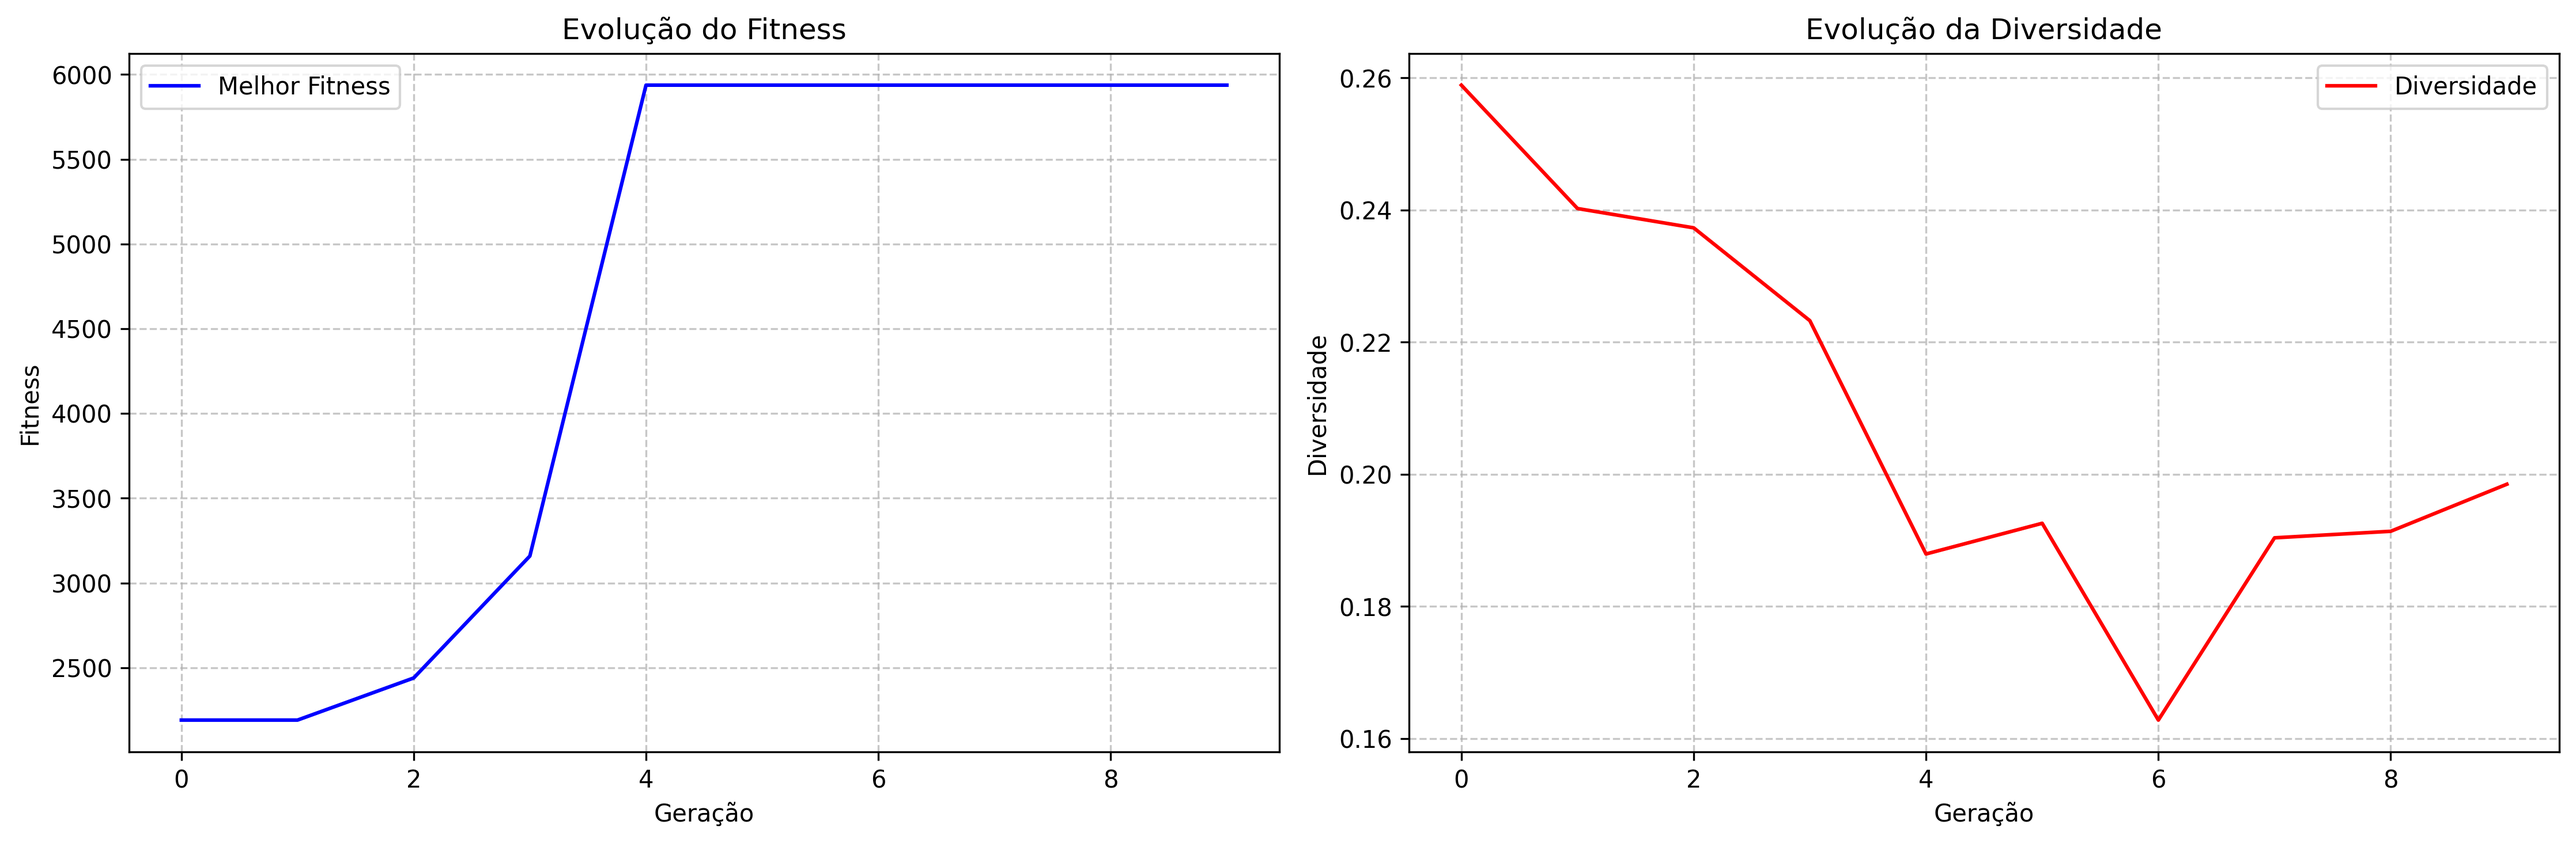
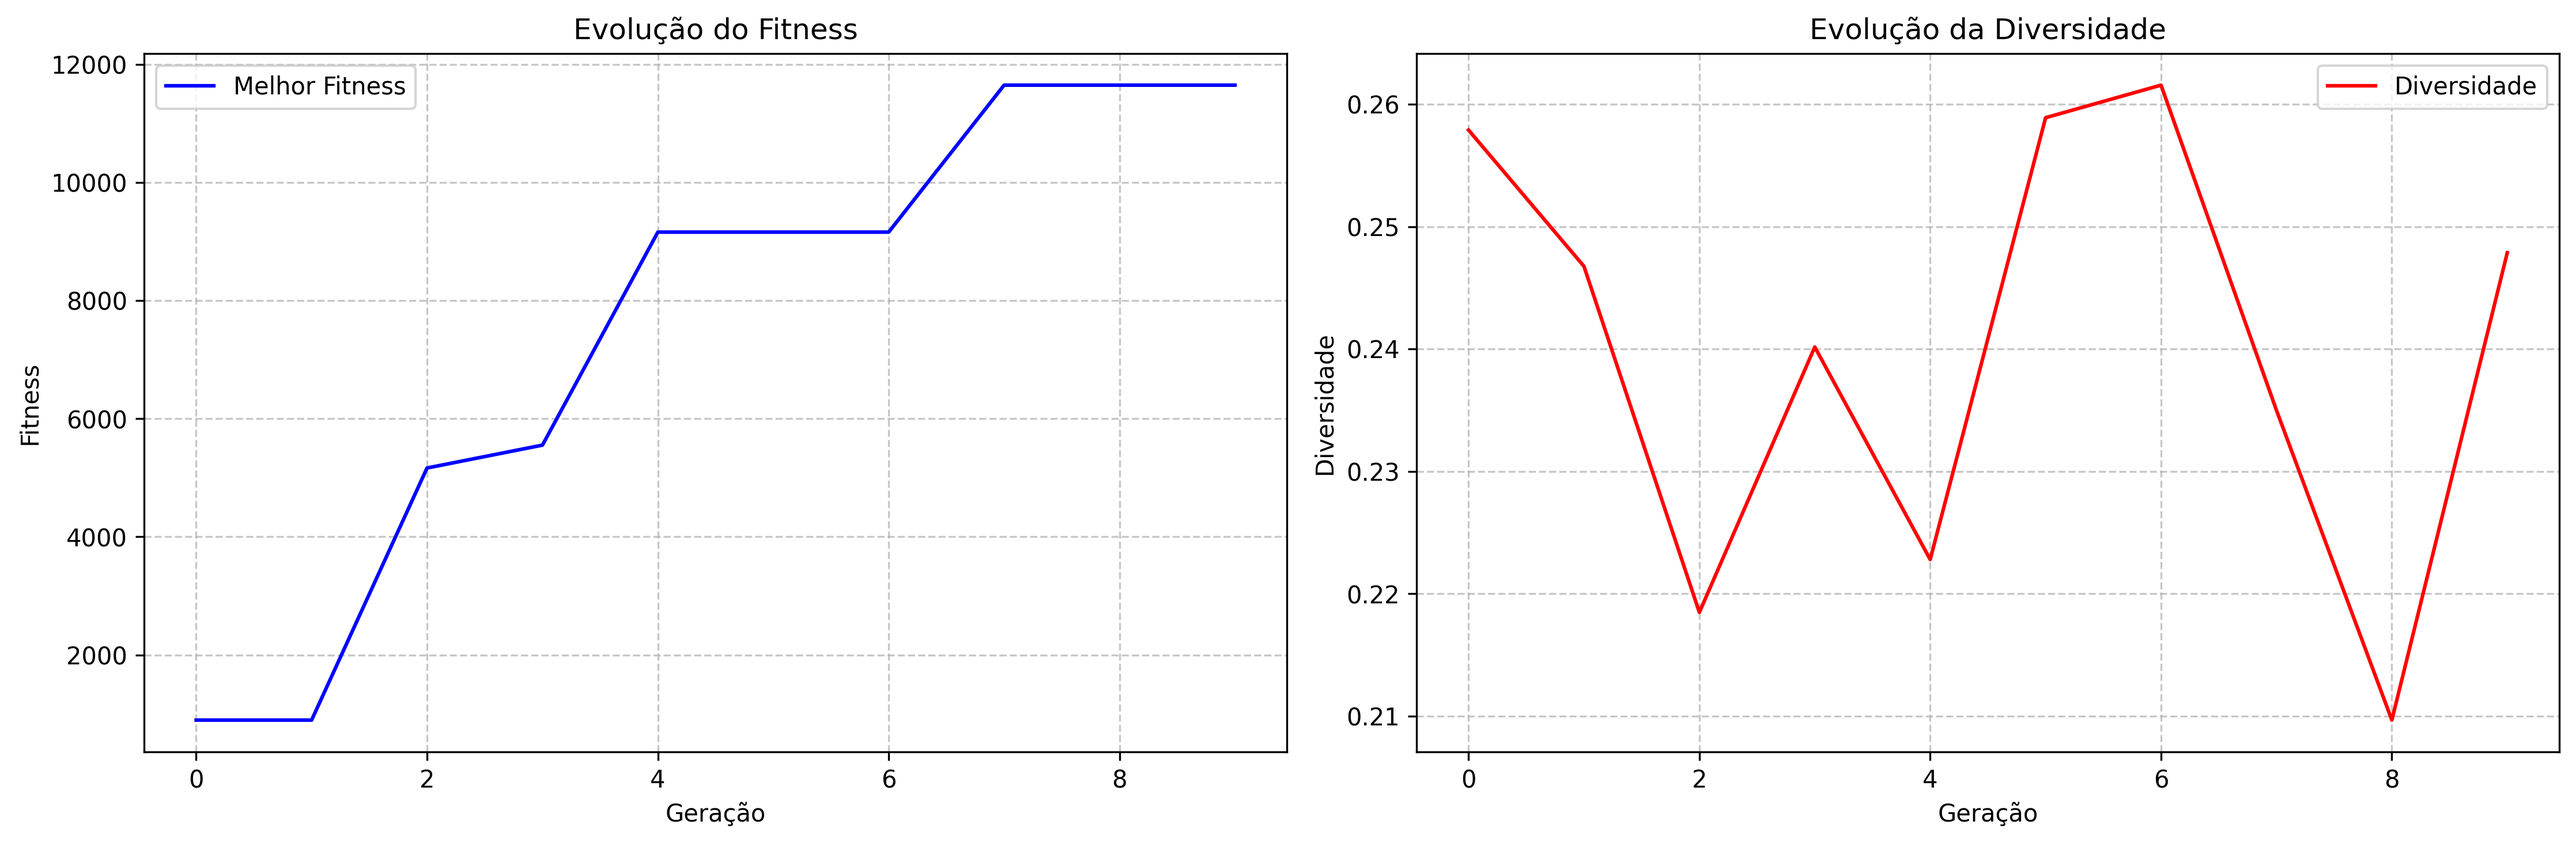
robo com melhor controle

diff --git a/robo_exercicio.py b/robo_exercicio.py
@@ -231,8 +231,8 @@ class Robo:
         self.tempo_parado = 0
         self.ultima_posicao = (x, y)
         self.meta_atingida = False
-        self.velocidade_maxima = 8.0  # Velocidade máxima reduzida para melhor controle
-        self.aceleracao_maxima = 0.5  # Aceleração máxima reduzida para movimentos mais suaves
+        self.velocidade_maxima = 12.0  # Velocidade máxima ajustada para 12.0
+        self.aceleracao_maxima = 0.8  # Aceleração máxima ajustada para 0.8
     
     def reset(self, x, y):
         self.x = x
@@ -258,7 +258,7 @@ class Robo:
             # Se ficar parado por muito tempo, força um movimento
             if self.tempo_parado > 3:
                 self.angulo += np.pi/2  # Gira 90 graus
-                self.velocidade = self.velocidade_maxima * 0.5  # Recupera metade da velocidade
+                self.velocidade = self.velocidade_maxima * 0.6  # Recupera 60% da velocidade
                 self.tempo_parado = 0
         else:
             self.tempo_parado = 0
@@ -284,7 +284,7 @@ class Robo:
             self.colisoes += 1
             # Em vez de parar, ajusta o ângulo e mantém uma velocidade mínima
             self.angulo += np.pi/4  # Gira 45 graus
-            self.velocidade = self.velocidade_maxima * 0.3  # Mantém 30% da velocidade máxima
+            self.velocidade = self.velocidade_maxima * 0.4  # Mantém 40% da velocidade máxima
             # Tenta se mover na nova direção
             novo_x = self.x + self.velocidade * np.cos(self.angulo)
             novo_y = self.y + self.velocidade * np.sin(self.angulo)
